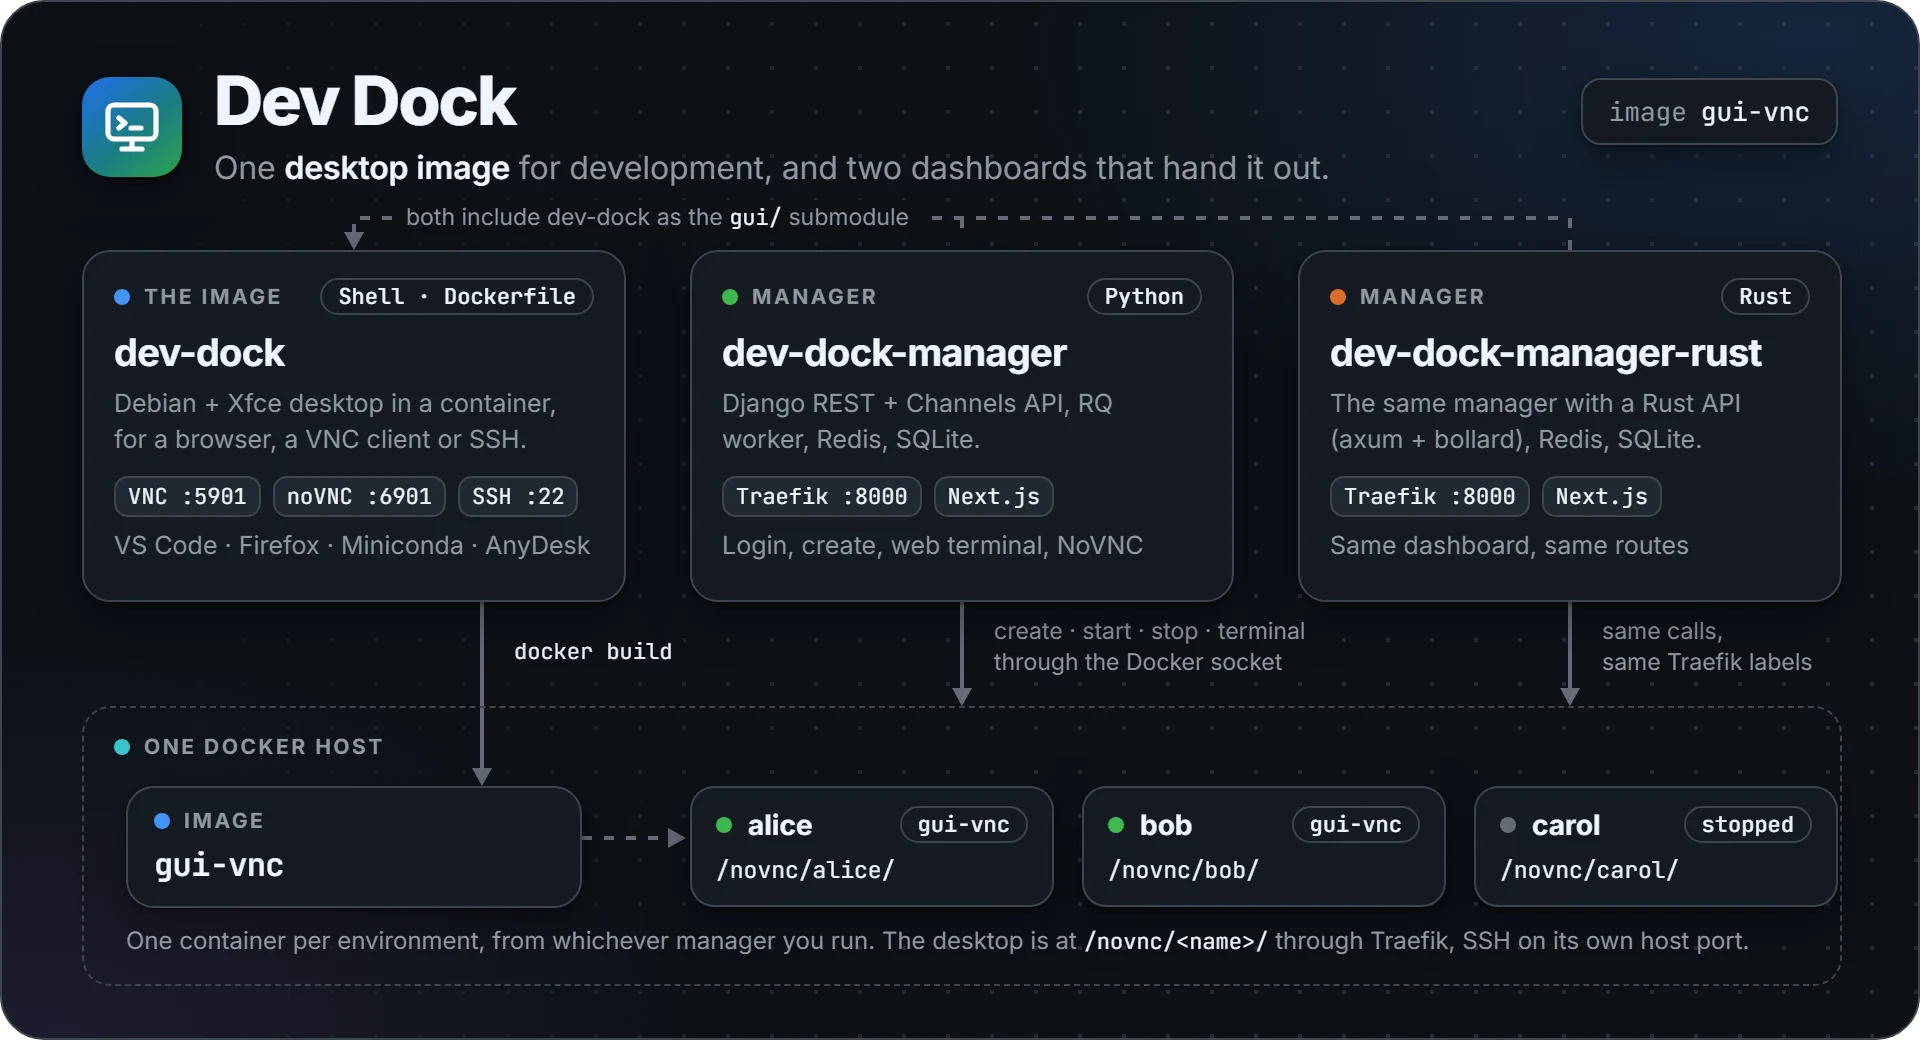
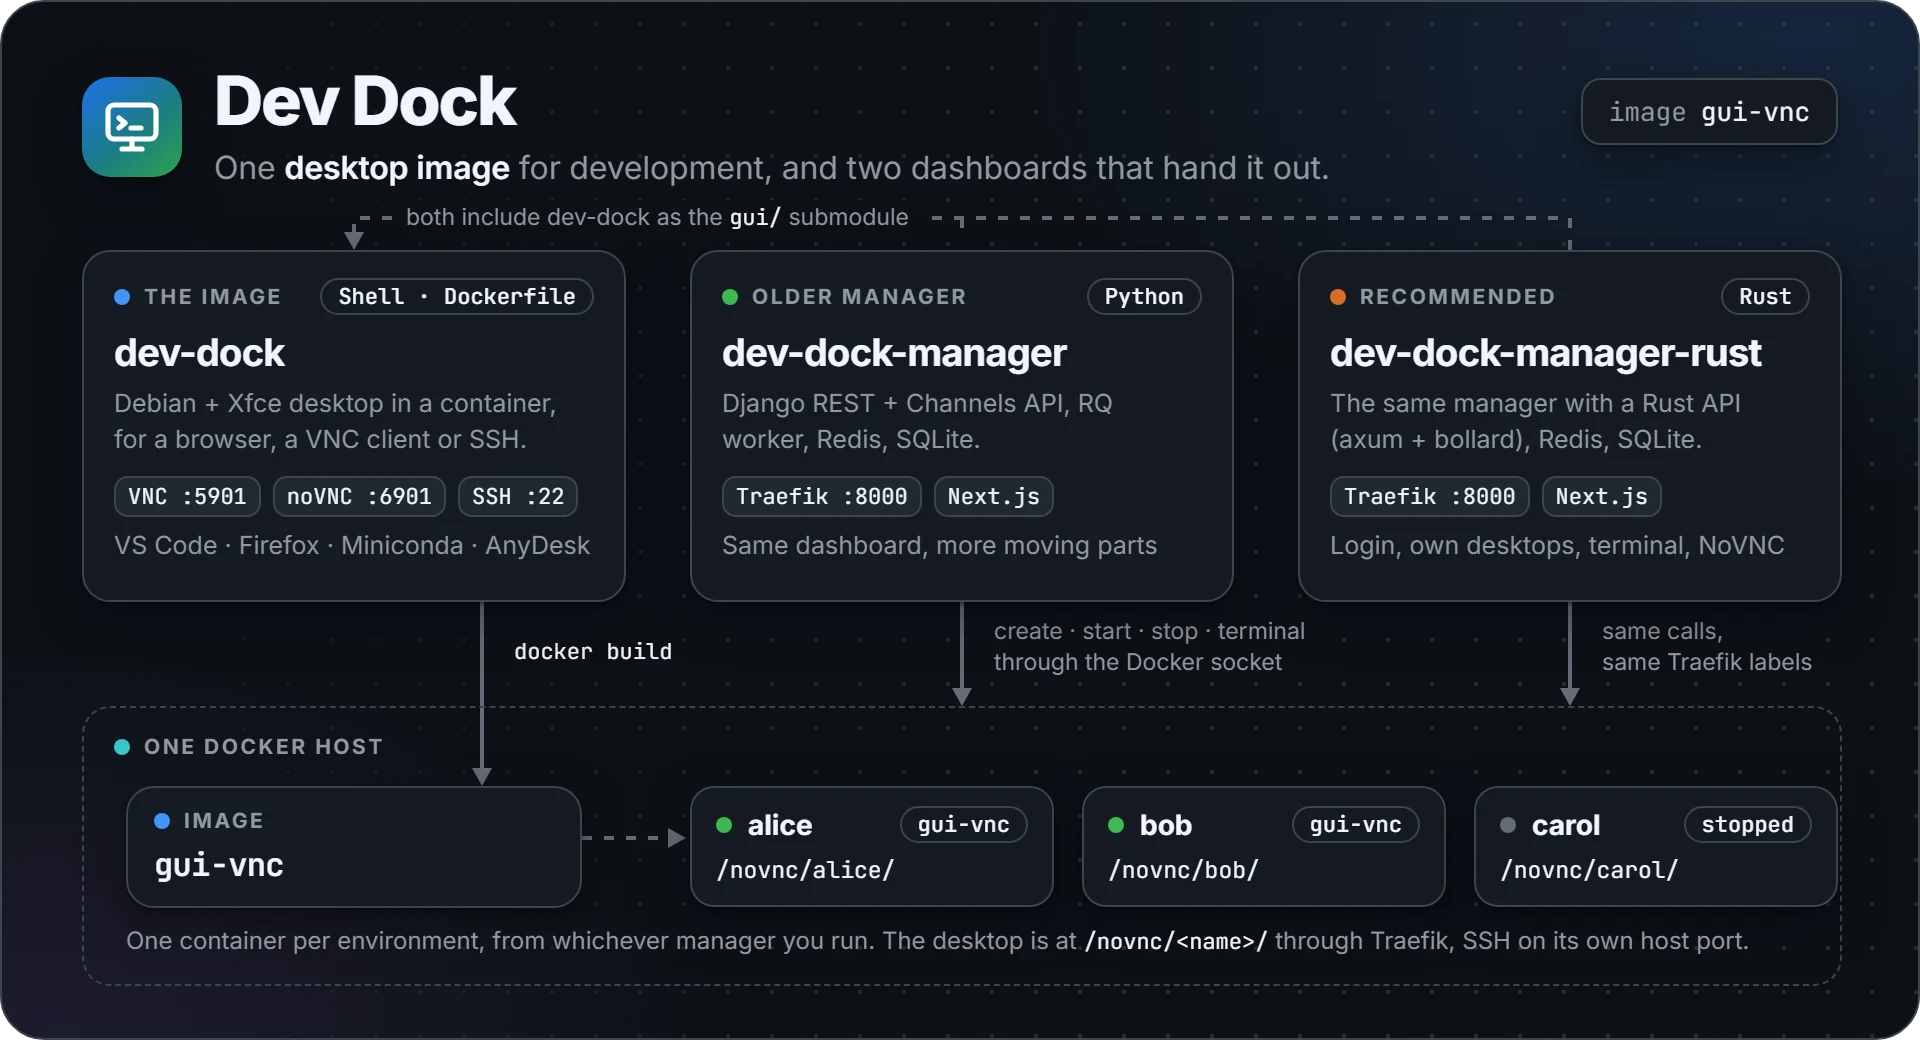
docs: recommend the Rust manager, explain the Docker Hub images
- The family table and the family diagram now mark dev-dock-manager-rust
  as the one to use and the Django manager as the older alternative
  (the user's decision); the Rust README carries the measurements.
- Docker Hub section: what the release workflow publishes (latest and
  the version, both architectures in one tag), how to run it by hand,
  and what the two old single-arch tags are.
- Build times from CI (3-4 min on GitHub's runners, 5.2 GB) next to the
  slower local numbers, and a CI badge.

diff --git a/docs/images/src/family.html b/docs/images/src/family.html
@@ -86,19 +86,19 @@
   </div>
 
   <div class="node repo" id="django">
-    <div class="label c-green"><i></i>Manager <span class="type">Python</span></div>
+    <div class="label c-green"><i></i>Older manager <span class="type">Python</span></div>
     <div class="title">dev-dock-manager</div>
     <div class="sub">Django REST + Channels API, RQ worker, Redis, SQLite.</div>
     <div class="chips"><span class="chip">Traefik :8000</span><span class="chip">Next.js</span></div>
-    <div class="sub">Login, create, web terminal, NoVNC</div>
+    <div class="sub">Same dashboard, more moving parts</div>
   </div>
 
   <div class="node repo" id="rust">
-    <div class="label c-orange"><i></i>Manager <span class="type">Rust</span></div>
+    <div class="label c-orange"><i></i>Recommended <span class="type">Rust</span></div>
     <div class="title">dev-dock-manager-rust</div>
     <div class="sub">The same manager with a Rust API (axum + bollard), Redis, SQLite.</div>
     <div class="chips"><span class="chip">Traefik :8000</span><span class="chip">Next.js</span></div>
-    <div class="sub">Same dashboard, same routes</div>
+    <div class="sub">Login, own desktops, terminal, NoVNC</div>
   </div>
 
   <div class="node ghost" id="host">

diff --git a/README.md b/README.md
@@ -6,6 +6,7 @@
 </p>
 
 <p align="center">
+  <a href="https://github.com/NatLee/dev-dock/actions/workflows/ci.yml"><img src="https://github.com/NatLee/dev-dock/actions/workflows/ci.yml/badge.svg" alt="CI"></a>
   <a href="https://hub.docker.com/r/natlee/gui-vnc"><img src="https://img.shields.io/docker/pulls/natlee/gui-vnc" alt="Docker pulls"></a>
   <a href="./LICENSE"><img src="https://img.shields.io/github/license/NatLee/dev-dock" alt="License: MIT"></a>
 </p>
@@ -29,10 +30,11 @@ logs in and gets their own desktop container on one machine:
 | Repo | What it is |
 |---|---|
 | **dev-dock** (this repo) | Builds the `gui-vnc` image: desktop, VNC, noVNC and SSH in one container. |
-| [dev-dock-manager](https://github.com/NatLee/dev-dock-manager) | Web dashboard with a Django (Python) API. |
-| [dev-dock-manager-rust](https://github.com/NatLee/dev-dock-manager-rust) | The same dashboard with a Rust API. |
+| [dev-dock-manager-rust](https://github.com/NatLee/dev-dock-manager-rust) | **Recommended.** Web dashboard with a Rust API: per-user desktops, user management. |
+| [dev-dock-manager](https://github.com/NatLee/dev-dock-manager) | The older version of the same dashboard, with a Django (Python) API. |
 
-Both managers include this repo as their `gui/` git submodule and build `gui-vnc` from it. When someone
+If you're setting this up today, use the Rust manager. Its README has the measured differences (image size,
+memory, startup time, response times). Both managers include this repo as their `gui/` git submodule and build `gui-vnc` from it. When someone
 clicks "create", the manager starts a `gui-vnc` container through the Docker socket, publishes only its SSH
 port, and puts its noVNC page behind Traefik (a reverse proxy) at `/novnc/<name>/`. Everything else about
 the container is what this README describes.
@@ -84,8 +86,8 @@ docker compose up -d
 ```
 
 Be patient with the first build: it downloads a few hundred packages plus VS Code, Firefox and Miniconda.
-On an x86_64 machine with Docker 29 a clean build took 10 to 26 minutes depending on download speed, and
-the image came out at about 7.8 GB.
+On GitHub's runners a clean build takes about 3 to 4 minutes (x86_64 and arm64) and the image is about
+5.2 GB. On a desktop machine behind a slower connection it took 10 to 26 minutes, almost all of it downloads.
 
 With the default `docker-compose.yml` (container name `test`, every password `test`):
 
@@ -99,15 +101,20 @@ With the default `docker-compose.yml` (container name `test`, every password `te
 
 ## Pull from Docker Hub
 
-Pre-built images are on [natlee/gui-vnc](https://hub.docker.com/r/natlee/gui-vnc). There are two tags:
+Pre-built images are on [natlee/gui-vnc](https://hub.docker.com/r/natlee/gui-vnc).
 
-| Tag | Architecture | Built |
-|---|---|---|
-| `20260208-arm64` | arm64 (Apple Silicon, ARM servers) | 2026-02-08 |
-| `20241202-x86` | x86_64 | 2024-12-02, from an older version of this repo |
+Every published GitHub release builds and pushes a new image with
+[`.github/workflows/publish.yml`](.github/workflows/publish.yml): it builds natively on an x86_64 and an
+arm64 runner, runs the same smoke test as CI on each, and only then pushes both under one tag, so Docker
+picks the right architecture for you:
+
+| Tag | What it is |
+|---|---|
+| `latest` | the newest release |
+| `2.1.0` and so on | a specific release (the GitHub tag `v2.1.0` without the `v`) |
 
 ```bash
-docker pull natlee/gui-vnc:20260208-arm64
+docker pull natlee/gui-vnc:latest
 
 docker run -d \
   -p 12345:5901 -p 13579:6901 -p 24680:22 \
@@ -115,11 +122,18 @@ docker run -d \
   -e VNC_PW=mypassword \
   -e DEFAULT_USER=dev -e DEFAULT_USER_PASSWORD=dev \
   -e ROOT_PASSWORD=root \
-  --name gui natlee/gui-vnc:20260208-arm64
+  --name gui natlee/gui-vnc:latest
 ```
 
-Then open `http://localhost:13579/?password=mypassword`. For the current version on x86_64, build the image
-yourself as shown above.
+Then open `http://localhost:13579/?password=mypassword`.
+
+The two tags from before the workflow existed stay up: `20260208-arm64` (arm64 only) and `20241202-x86`
+(x86_64 only, built from a 2024 version of this repo). Until the first release goes through the workflow,
+`latest` doesn't exist yet; build the image yourself as shown above.
+
+Maintainers can also start the workflow by hand (Actions → Publish to Docker Hub → Run workflow) with a
+version tag. Untick "push" to only build and smoke-test both architectures. It logs in with the repository
+secrets `DOCKER_USERNAME` and `DOCKER_TOKEN` (a Docker Hub access token).
 
 ## NVIDIA GPU
 
